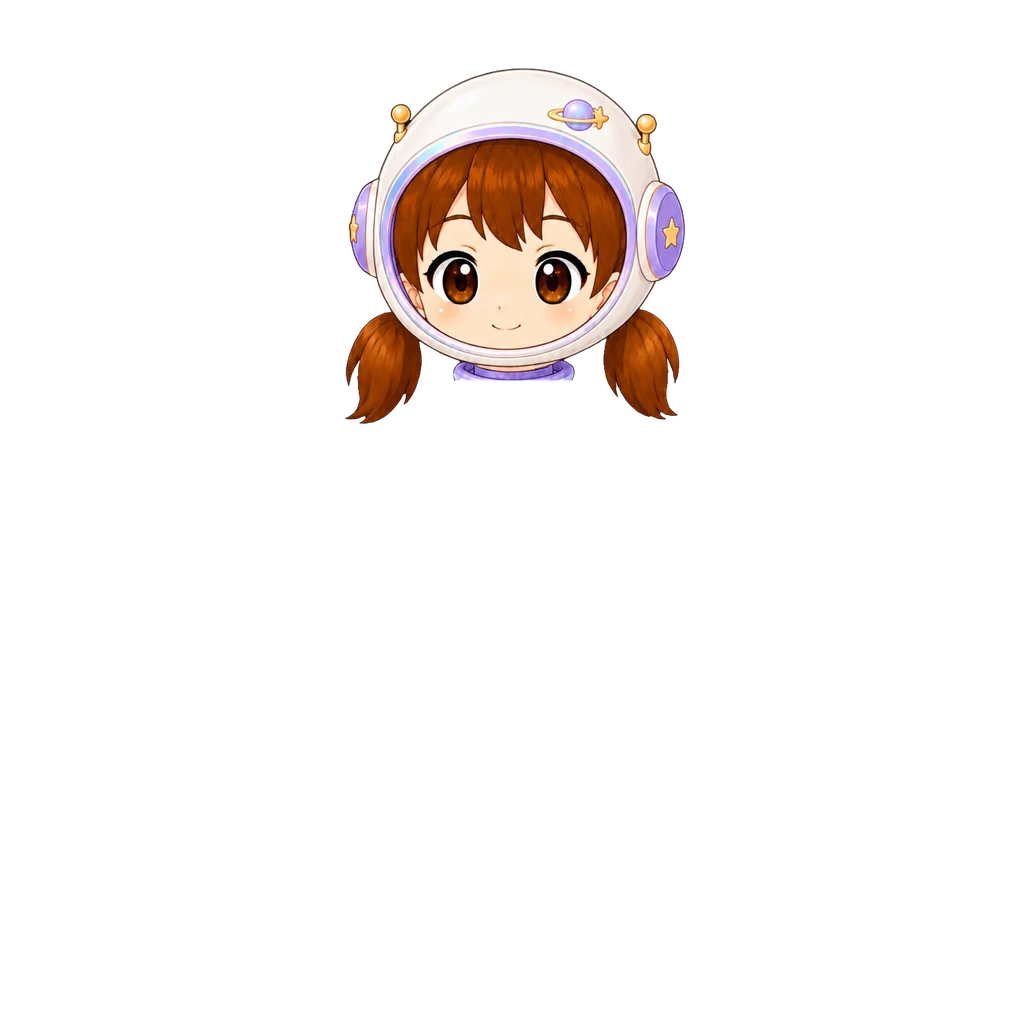
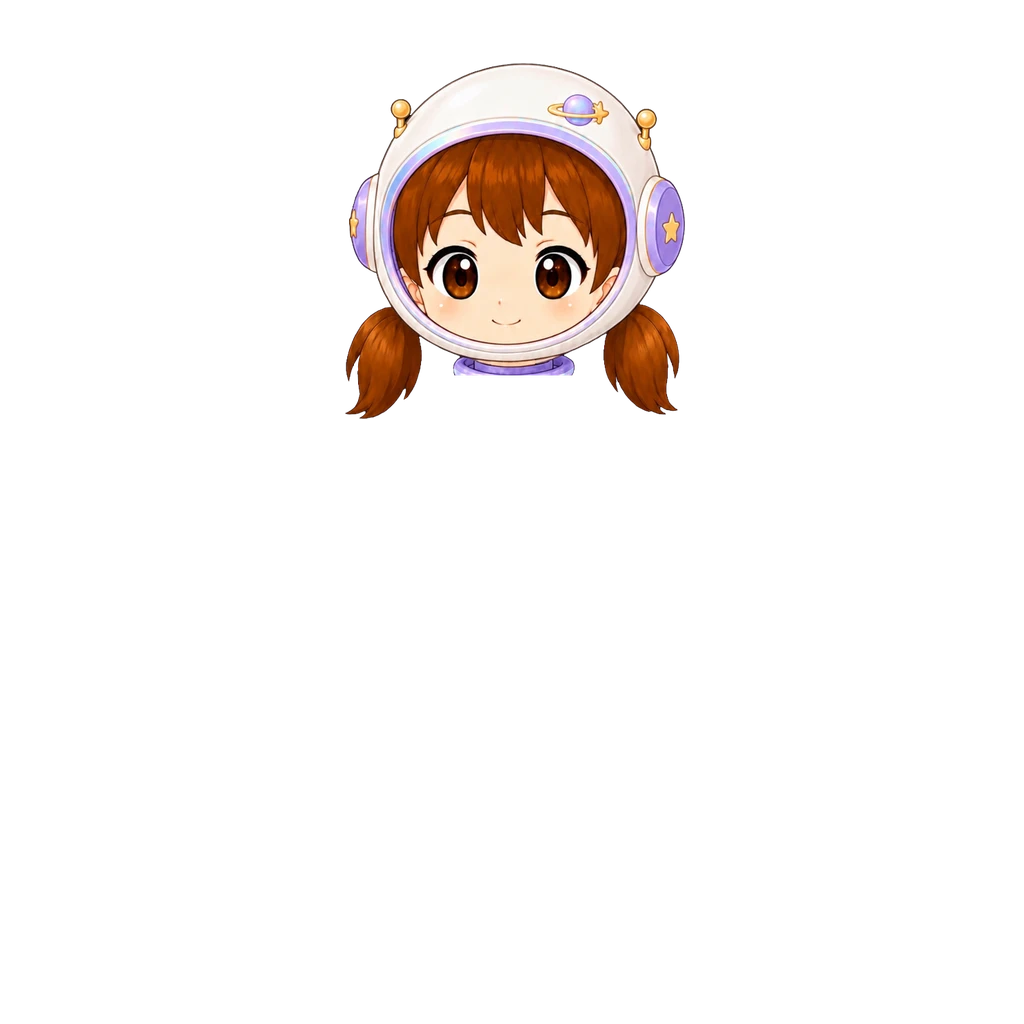
우주 헬멧(여아) 위로 5 (#890)
원점 (345,68)→(345,63). img ?v=2.

Claude-Session: https://claude.ai/code/session_018maNuYqDfFyRSe9uKpZhPR

Changed region(s): [[0.3438, 0.0625, 0.6875, 0.4375], [0.5938, 0.375, 0.6562, 0.4062]]

diff --git a/src/data/avatarEquipment.js b/src/data/avatarEquipment.js
@@ -253,8 +253,9 @@ export const AVATAR_CATALOG = [
   { id: "hat_wizard_girl", slot: "hat",  label: "마법사 모자", emoji: "🧙♀", price:DECOR_PRICE.epic, rarity: "epic", theme: "common", forGender: "girl", hidesHead: true, img: "assets/avatar/hat/wizard-hat-girl.webp?v=3", thumb: "assets/avatar/thumb/hat_wizard_girl.webp" },
   /* 우주 헬멧 [2026-10-04] — 여아. 흰 우주 헬멧(보라 귀덮개·토성 장식·보라 목깃) + 얼굴·양갈래 머리 한 장(사용자 원화 492×514). 별빛 우주인 옷과 짝.
      들꽃 머리띠와 같은 방식(hidesHead) — 얼굴 템플릿 매칭(일치 0.881, 헬멧 유리 반사로 조금 낮음)으로 배율 0.692, 원점 (345,68).
-     아래는 자르지 않음 — 보라 목깃이 목에 걸쳐 우주복 깃 위로 자연스럽게 이어진다. 탑재 상자 (345,68,685,424). */
-  { id: "hat_helmet_girl", slot: "hat",  label: "우주 헬멧", emoji: "🧑🚀", price:DECOR_PRICE.epic, rarity: "epic", theme: "space", forGender: "girl", hidesHead: true, img: "assets/avatar/hat/space-helmet-girl.webp", thumb: "assets/avatar/thumb/hat_helmet_girl.webp" },
+     아래는 자르지 않음 — 보라 목깃이 목에 걸쳐 우주복 깃 위로 자연스럽게 이어진다. 탑재 상자 (345,68,685,424).
+     [2026-10-04] 사용자 조정 — 위로 5(원점 (345,63)). 탑재 상자 (345,63,685,419). img ?v=2. */
+  { id: "hat_helmet_girl", slot: "hat",  label: "우주 헬멧", emoji: "🧑🚀", price:DECOR_PRICE.epic, rarity: "epic", theme: "space", forGender: "girl", hidesHead: true, img: "assets/avatar/hat/space-helmet-girl.webp?v=2", thumb: "assets/avatar/thumb/hat_helmet_girl.webp" },
   /* 남아 사파리 모자 [2026-10-02] — 모자+얼굴 한 장(사용자 원화)이라 hidesHead: 쓰면 머리카락 머리 장이 빠지고
      민머리 위에 얹힌다(베이스 v10 구조). 얼굴(눈~입) 템플릿 매칭으로 맞춤(배율 0.4065 · 일치 0.970).
      원화에 달린 목은 z50 이라 높은 깃(우주복·후드·도토리)을 덮어서 기본 머리 장처럼 y404 에서 잘랐다. */

diff --git a/art-src/README.md b/art-src/README.md
@@ -609,4 +609,4 @@ bbox로 여백만 잘라내고 배포본은 높이 480px로 축소했다(전부 
 | chef-hat-girl-src.webp | **요리사 모자 원화 여아 — 모자+얼굴 한 장 (사용자 원화 2026-10-04)** — 흰 요리사 모자(분홍 띠·크루아상 장식) + 얼굴·양갈래 머리. hidesHead 로 여아 기본 머리를 대신한다. 얼굴 템플릿 매칭(일치 0.924)으로 배율 0.660·원점 (348,28), 아래는 자르지 않음. 탑재 상자 (349,28,691,413). **[2026-10-04 조정]** 3% 크게(0.6798, 원점 (343,18)) · img ?v=2. 1% 더 크게(0.6866, 원점 (341,15)) · img ?v=3. 아래로 3(원점 (341,18)) · img ?v=4. 아래로 1 더(원점 (341,19)) · img ?v=5. 상점 그림은 원화를 세로 160px 로 | avatar/hat/chef-hat-girl.webp · thumb/hat_chef_girl.webp |
 | cloud-hat-girl-src.webp | **구름 모자 원화 여아 — 모자+얼굴 한 장 (사용자 원화 2026-10-04)** — 노란 벙거지(청록 띠·무지개 구름 장식) + 얼굴·양갈래 머리. hidesHead 로 여아 기본 머리를 대신한다. 얼굴 템플릿 매칭(일치 0.959)으로 배율 0.676·원점 (333,74), 아래는 자르지 않음. 탑재 상자 (333,74,695,415). **[2026-10-04 조정]** 3% 크게(0.6963, 원점 (328,66)) · img ?v=2. 아래로 2(원점 (328,68)) · img ?v=3. 상점 그림은 원화를 세로 160px 로 | avatar/hat/cloud-hat-girl.webp · thumb/hat_cloud_girl.webp |
 | wizard-hat-girl-src.webp | **마법사 모자 원화 여아 — 모자+얼굴 한 장 (사용자 원화 2026-10-04)** — 보라 마법사 모자(금 초승달·별 장식) + 얼굴·양갈래 머리. hidesHead 로 여아 기본 머리를 대신한다. 얼굴 템플릿 매칭(일치 0.943)으로 배율 0.696·원점 (295,20), 아래는 자르지 않음. 탑재 상자 (295,20,752,420). **[2026-10-04 조정]** 아래로 2·왼쪽 1(원점 (294,22)) · img ?v=2. 다시 아래로 2·왼쪽 1(원점 (293,24)) · img ?v=3. 상점 그림은 원화를 세로 160px 로 | avatar/hat/wizard-hat-girl.webp · thumb/hat_wizard_girl.webp |
-| space-helmet-girl-src.webp | **우주 헬멧 원화 여아 — 헬멧+얼굴 한 장 (사용자 원화 2026-10-04)** — 흰 우주 헬멧(보라 귀덮개·토성 장식·보라 목깃) + 얼굴·양갈래 머리. hidesHead 로 여아 기본 머리를 대신한다. 얼굴 템플릿 매칭(일치 0.881)으로 배율 0.692·원점 (345,68), 아래는 자르지 않음(목깃이 우주복 깃 위로 이어짐). 탑재 상자 (345,68,685,424). 상점 그림은 원화를 세로 160px 로 | avatar/hat/space-helmet-girl.webp · thumb/hat_helmet_girl.webp |
+| space-helmet-girl-src.webp | **우주 헬멧 원화 여아 — 헬멧+얼굴 한 장 (사용자 원화 2026-10-04)** — 흰 우주 헬멧(보라 귀덮개·토성 장식·보라 목깃) + 얼굴·양갈래 머리. hidesHead 로 여아 기본 머리를 대신한다. 얼굴 템플릿 매칭(일치 0.881)으로 배율 0.692·원점 (345,68), 아래는 자르지 않음(목깃이 우주복 깃 위로 이어짐). 탑재 상자 (345,68,685,424). **[2026-10-04 조정]** 위로 5(원점 (345,63)) · img ?v=2. 상점 그림은 원화를 세로 160px 로 | avatar/hat/space-helmet-girl.webp · thumb/hat_helmet_girl.webp |
